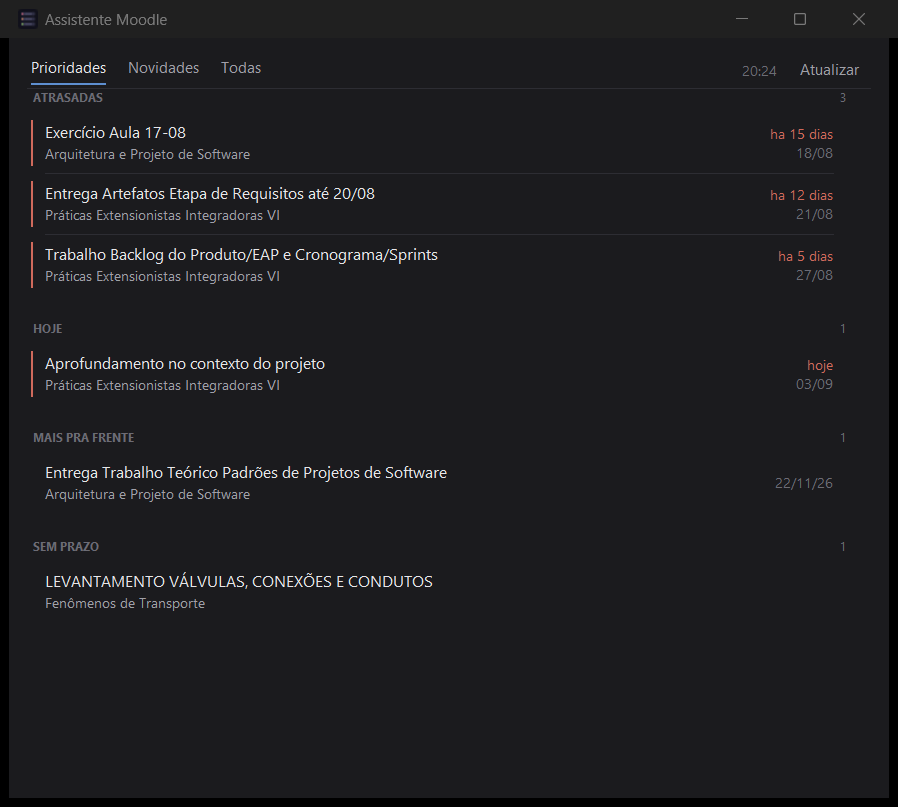
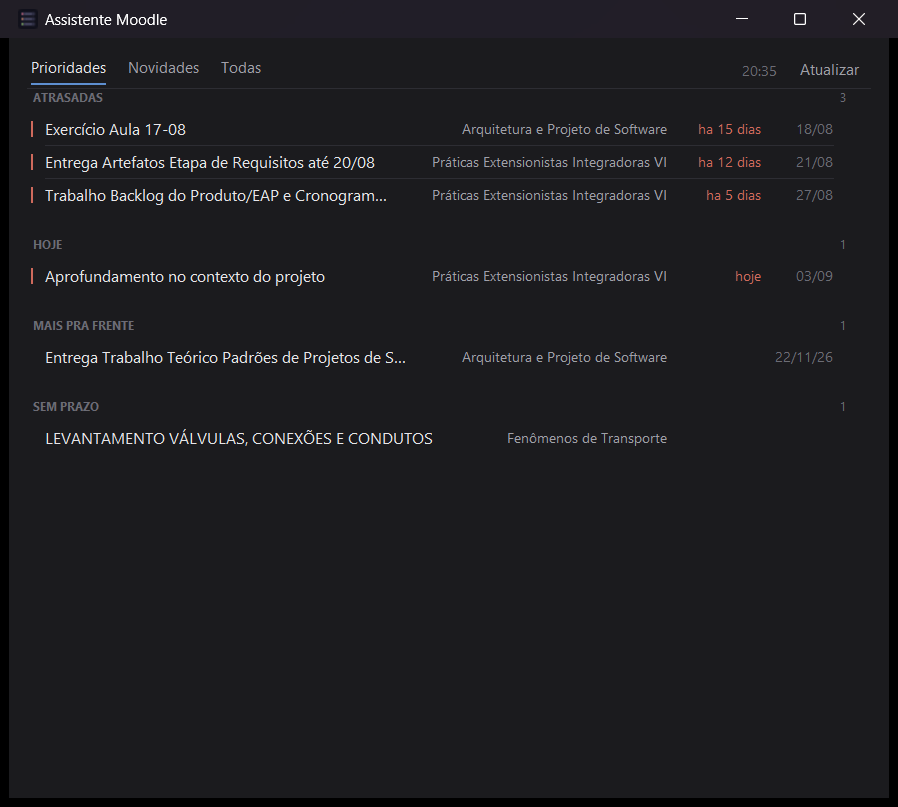
Uma linha por atividade
Nome, materia e prazo na mesma linha, ~33px em vez de ~60px: cabe o dobro de
atividades na tela sem rolar.

- nome e materia sao encurtados com reticencias medindo a fonte de verdade
  (ui.encurtar); o Tk nao encurta sozinho, cortaria no meio de uma letra
- a materia cede espaco primeiro, por ser a informacao secundaria da linha
- a coluna do prazo tem largura fixa mesmo quando falta o relativo ou a data,
  senao a coluna da materia dancava de uma linha pra outra
- Page Up/Down passa a rolar um tanto fixo quando a aba acabou de aparecer e
  o canvas ainda nao tem altura (antes simplesmente nao rolava)

O teste de rolagem precisou de 45 atividades no lugar de 20: com uma linha
por atividade, 20 cabem na tela e nao haveria rolagem pra testar.

diff --git a/app.py b/app.py
@@ -23,7 +23,7 @@ import moodle_core
 import notificacoes
 from janela_chat import JanelaChat
 from ui import (C, FONTE, T_CORPO, T_MIUDO, T_TITULO, Abas, AreaRolavel, BotaoTexto,
-                RotuloSecao, fio, info_prazo, materia_curta, wrap)
+                RotuloSecao, encurtar, fio, fonte_medida, info_prazo, materia_curta)
 
 ATUALIZA_CADA_MS = 30 * 60 * 1000  # 30 minutos
 ICONE = os.path.join(os.path.dirname(os.path.abspath(__file__)), "icone.ico")
@@ -48,7 +48,7 @@ class LinhaAtividade(ctk.CTkFrame):
     espacamento. Cabe mais coisa na tela e nada disputa atencao com o prazo.
     """
 
-    ALTURA = 26  # marcador lateral; a linha cresce com o texto
+    ALTURA = 16  # altura do marcador lateral
 
     def __init__(self, master, atividade, agora, ocultar_sem_prazo=False):
         super().__init__(master, fg_color="transparent", corner_radius=4)
@@ -66,46 +66,53 @@ class LinhaAtividade(ctk.CTkFrame):
                               and not entregue else None)
         self._marcador = tk.Frame(self, width=2, height=self.ALTURA,
                                   bg=self._cor_marcador or C["fundo"])
-        self._marcador.pack(side="left", fill="y", padx=(0, 12), pady=7)
+        self._marcador.pack(side="left", fill="y", padx=(0, 12), pady=8)
 
         if urgencia == "sem" and ocultar_sem_prazo:
             rel = ""  # na aba Prioridades a secao ja se chama "Sem prazo"
-        # so cria a coluna do prazo se houver o que mostrar: CTkFrame vazio
-        # assume os 200x200 padrao e transforma a linha num bloco enorme
-        if rel or data:
-            prazo = ctk.CTkFrame(self, fg_color="transparent", width=1, height=1)
-            prazo.pack(side="right", padx=(12, 12), pady=7)
-            if rel:
-                ctk.CTkLabel(prazo, text=rel, font=(FONTE, T_MIUDO), height=15,
-                             text_color=C["texto3"] if entregue else cor,
-                             anchor="e").pack(anchor="e")
-            if data:
-                ctk.CTkLabel(prazo, text=data, font=(FONTE, T_MIUDO), height=15,
-                             text_color=C["texto3"], anchor="e").pack(anchor="e")
 
-        corpo = ctk.CTkFrame(self, fg_color="transparent")
-        corpo.pack(side="left", fill="x", expand=True, pady=(7, 8))
-        linha1 = ctk.CTkFrame(corpo, fg_color="transparent")
-        linha1.pack(fill="x")
+        # Coluna do prazo, a direita, sempre com a mesma largura mesmo quando
+        # falta o relativo ou a data: e o que mantem a coluna da materia
+        # alinhada de uma linha pra outra.
+        prazo = ctk.CTkFrame(self, fg_color="transparent", width=1, height=1)
+        prazo.pack(side="right", padx=(10, 12))
+        ctk.CTkLabel(prazo, text=data, font=(FONTE, T_MIUDO), height=16, width=48,
+                     text_color=C["texto3"], anchor="e").pack(side="right")
+        ctk.CTkLabel(prazo, text=rel, font=(FONTE, T_MIUDO), height=16, width=66,
+                     text_color=C["texto3"] if entregue else cor,
+                     anchor="e").pack(side="right", padx=(0, 10))
+
         if entregue:
-            ctk.CTkLabel(linha1, text="✓", font=(FONTE, T_CORPO), height=18,
-                         text_color=C["ok"], width=14).pack(side="left", padx=(0, 4))
-        self.rot_nome = ctk.CTkLabel(
-            linha1, text=atividade["nome"], font=(FONTE, T_TITULO), height=18,
-            text_color=C["texto3"] if entregue else C["texto"], anchor="w", justify="left")
-        self.rot_nome.pack(side="left", fill="x", expand=True)
+            ctk.CTkLabel(self, text="✓", font=(FONTE, T_CORPO), height=16, width=14,
+                         text_color=C["ok"]).pack(side="left", padx=(0, 4))
 
-        rodape = materia_curta(atividade["materia"])
+        # nome a esquerda, materia encostada na coluna do prazo: alinhadas, as
+        # materias viram uma coluna que da pra varrer com o olho
+        self._nome = atividade["nome"]
+        self._materia = materia_curta(atividade["materia"])
         if atividade.get("anexos"):
             n = len(atividade["anexos"])
-            rodape += f"   ·   {n} anexo" + ("s" if n > 1 else "")
-        ctk.CTkLabel(corpo, text=rodape, font=(FONTE, T_MIUDO), height=15,
-                     text_color=C["texto2"], anchor="w").pack(fill="x", pady=(1, 0))
+            self._materia += f"  ·  {n} anexo" + ("s" if n > 1 else "")
+        self.rot_materia = ctk.CTkLabel(self, text=self._materia, font=(FONTE, T_MIUDO),
+                                        height=16, text_color=C["texto2"], anchor="e")
+        self.rot_materia.pack(side="right", padx=(10, 0))
+        self.rot_nome = ctk.CTkLabel(
+            self, text=self._nome, font=(FONTE, T_TITULO), height=16,
+            text_color=C["texto3"] if entregue else C["texto"], anchor="w")
+        self.rot_nome.pack(side="left", fill="x", expand=True)
 
         self._ligar(self)
 
     def ajustar_largura(self, px):
-        self.rot_nome.configure(wraplength=wrap(px, self))
+        """Divide a largura entre nome e materia. A materia cede primeiro: e a
+        informacao secundaria da linha."""
+        px = max(160, px)
+        f_nome = fonte_medida(T_TITULO)
+        f_mat = fonte_medida(T_MIUDO)
+        largura_mat = min(f_mat.measure(self._materia), int(px * 0.46))
+        self.rot_materia.configure(text=encurtar(self._materia, f_mat, largura_mat))
+        self.rot_nome.configure(
+            text=encurtar(self._nome, f_nome, px - largura_mat - 20))
 
     # ---- clique e hover ----
     def _ligar(self, widget):
@@ -251,7 +258,7 @@ class App(ctk.CTk):
     def _largura_mudou(self, evento):
         if evento.widget is not self:
             return
-        largura = max(240, evento.width - 260)
+        largura = max(200, evento.width - 230)
         if abs(largura - getattr(self, "_ultima_largura", 0)) < 16:
             return
         self._ultima_largura = largura

diff --git a/ui.py b/ui.py
@@ -5,6 +5,7 @@ informacao (o quao perto esta o prazo), nao enfeite - por isso nada de fundo
 colorido, badge chapado ou numero gigante.
 """
 import tkinter as tk
+import tkinter.font as tkfont
 from datetime import datetime
 
 import customtkinter as ctk
@@ -47,6 +48,36 @@ def wrap(pixels, widget):
     """
     escala = ctk.ScalingTracker.get_widget_scaling(widget) or 1.0
     return int(max(120, pixels) / escala)
+
+
+_fontes = {}
+
+
+def fonte_medida(tamanho, peso="normal"):
+    """Font do Tk (com cache) so pra medir texto em pixels."""
+    chave = (tamanho, peso)
+    if chave not in _fontes:
+        _fontes[chave] = tkfont.Font(family=FONTE, size=tamanho, weight=peso)
+    return _fontes[chave]
+
+
+def encurtar(texto, fonte, limite_px):
+    """Corta com reticencias no fim, medindo a fonte de verdade.
+
+    O Tk nao encurta sozinho: sem isso o texto so seria cortado no meio de uma
+    letra quando faltasse espaco.
+    """
+    if limite_px <= 0 or fonte.measure(texto) <= limite_px:
+        return texto
+    reticencias = fonte.measure("…")
+    baixo, alto = 0, len(texto)
+    while baixo < alto:
+        meio = (baixo + alto + 1) // 2
+        if fonte.measure(texto[:meio]) + reticencias <= limite_px:
+            baixo = meio
+        else:
+            alto = meio - 1
+    return texto[:baixo].rstrip() + "…" if baixo else "…"
 
 
 def info_prazo(a, agora):
@@ -238,8 +269,14 @@ class AreaRolavel(ctk.CTkFrame):
             self._canvas.yview_scroll(int(-delta / 120 * self.PASSO), "units")
 
     def rolar_paginas(self, quantas):
-        if self._barra_visivel:
-            self._canvas.yview_scroll(int(quantas * self._canvas.winfo_height() * 0.9), "units")
+        """Page Up/Down. Se a aba acabou de aparecer o canvas ainda pode estar
+        sem altura; nesse caso rola um tanto fixo em vez de nao rolar nada."""
+        if not self._barra_visivel:
+            return
+        altura = self._canvas.winfo_height()
+        if altura <= 1:
+            altura = 400
+        self._canvas.yview_scroll(int(quantas * altura * 0.9), "units")
 
     def ir_para(self, fracao):
         self._canvas.yview_moveto(fracao)

diff --git a/teste_rolagem.py b/teste_rolagem.py
@@ -19,7 +19,9 @@ FAKE = {
     "agora": agora,
     "atividades": [{"materia": f"Materia {i % 3}_Eng.Soft06", "nome": f"Atividade numero {i}",
                     "duedate": agora + (i + 5) * 86400, "status": "new", "url": "https://x/y"}
-                   for i in range(20)],
+                   # 45 atividades: com uma linha por atividade cabem muitas na
+                   # tela, e um cenario menor nem geraria rolagem
+                   for i in range(45)],
     "novidades": [],
 }
 moodle_core.coletar = lambda: FAKE
@@ -124,6 +126,8 @@ def etapa():
 
     print("\n=== teclado ===")
     a.abas.set("Prioridades")
+    a.update()
+    time.sleep(0.3)  # deixa a aba assentar: sem altura, Page Down nao anda
     a.update()
     prio.ir_para(0)
     a.update()
